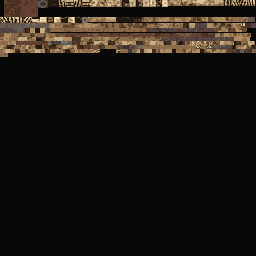
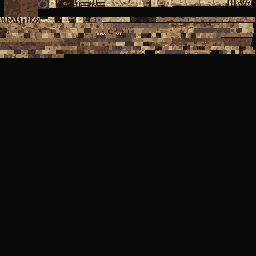
Squelette guerrier : tetes/os plus epais, attaque a l'arme seule, mesure des traversees, fiche PERSONNAGES_TECH, galerie_trous

Changed region(s): [[0.0, 0.0, 1.0, 0.25]]

diff --git a/sources_blender/scripts/squelette_guerrier.py b/sources_blender/scripts/squelette_guerrier.py
@@ -80,9 +80,11 @@ def loft(M, bone, rings, cls, part, caps=True, apex=None, pits=None, **kw):
 def ring_rect(c, s, f, hs, hf):
     return [c + s * hs + f * hf, c + s * hs - f * hf, c - s * hs - f * hf, c - s * hs + f * hf]
 
+EPAIS = 1.22     # os longs plus epais (lisibles a 20 m) ; les epiphyses (extremites) en profitent aussi
+
 def os_long(M, bone, a, b, stations, side, front, part, cls="os"):
     ax = b - a
-    rings = [ring_rect(a + ax * t, side, front, hs, hf) for t, hs, hf in stations]
+    rings = [ring_rect(a + ax * t, side, front, hs * EPAIS, hf * EPAIS) for t, hs, hf in stations]
     return loft(M, bone, rings, cls, part)
 
 def mir(p):
@@ -148,6 +150,12 @@ for sg, nom in ((1, "l"), (-1, "r")):
     x = sg * 0.114
     loft(M, "foot_" + nom, [[V(x + 0.032, 0.125, 0.0), V(x - 0.032, 0.125, 0.0), V(x - 0.030, 0.125, 0.096), V(x + 0.030, 0.125, 0.096)],
                             [V(x + 0.046, -0.215, 0.0), V(x - 0.046, -0.215, 0.0), V(x - 0.040, -0.215, 0.034), V(x + 0.040, -0.215, 0.034)]], "os", "pied_" + nom)
+
+# tete : un peu plus grosse (lisibilite a distance), echelle autour de la nuque
+CTR = V(0.0, 0.03, 1.75)
+for i, b in enumerate(corps.bone):
+    if b == "Head":
+        corps.v[i] = CTR + (corps.v[i] - CTR) * 1.12
 
 # bouclier rond ebreche, fixe a l'avant-bras gauche (face vers l'avant = -Y)
 SC = V(0.600, 0.065 - 0.155, 1.456)

diff --git a/docs/PERSONNAGES_TECH.md b/docs/PERSONNAGES_TECH.md
@@ -1,0 +1,35 @@
+# Fiches techniques des personnages
+
+(Une section par agent. Cette section : « Squelette guerrier ». Si le fichier existe déjà sur la branche fusionnée, ajouter la section à la suite.)
+
+## Squelette guerrier (ennemi « squelette », branche graphisme/squelette-guerrier)
+
+### Macro / Méso / Micro (décidés avant le code)
+- **Macro (silhouette à 20 m)** : un grand os clair sur le fond sombre de la crypte : cage thoracique en bloc rayé de noir, casque conique en fer, bouclier rond ébréché au bras gauche, lame ou arc à droite, os longs épais à épiphyses larges. Se distingue du draugr (chair momifiée, haillons) par l'absence totale d'étoffe et par la teinte ivoire.
+- **Méso (2-8 m)** : cage thoracique à 6 pans (fentes intercostales peintes, sternum saillant), bassin en 3 blocs (sacrum + 2 ailes iliaques), crâne facetté avec orbites et narine en pyramides creuses réelles, mâchoire séparée, nasal du casque ; chaque os long = prisme à 4 pans évasé aux deux bouts (condyles) qui recouvre l'articulation voisine (aucun trou au pliage).
+- **Micro (< 2 m)** : atlas 256² à DENSITE_PERSO = 32 texels/m, un îlot par face ; os ivoire -> brun (taches, dessous des os plus sombres, poussière vers le bas), arêtes éclaircies d'un texel sur les grandes faces, fer rouillé par plaques, bouclier peint écaillé (secteurs rouges), dents du maxillaire, lueur froide dans les orbites (matériau non éclairé très sombre bleuté, surface 1).
+
+### Budget
+- Triangles (tout compris) : **552** corps + casque + bouclier ; +38 épée = **590** ; +44 arc = **596** (cible 450-600). Détail : crâne 32, face 50, mâchoire 20, casque 42, cage 44, bassin 36, os longs 8 (28 ou 20 chacun), mains 24, pieds 24, clavicules 24, cou 12, lombes 12, bouclier 38.
+- Os : 25 = RIG18 (root + 18 déformants) + `spine_02` + 4 feuilles sans poids (`ball_l/r`, `middle_01_l/r`, exigées par `scripts/ragdoll.gd`). Plafond 26 respecté ; aucun os secondaire à ressort (pas d'étoffe sur un squelette).
+- Skinning rigide : 1 os, poids 1,0 par sommet (pièces rigides, adapté au vertex snapping). Bouclier -> `lowerarm_l`, arme -> `hand_r` (repère de la prise de l'épée du joueur, `draugr.gd: prise`).
+- Texture : 1 atlas 256x256 (~16 % utilisé à 32 texels/m : marge pour 64 texels/m), palette 15 bits, rampes de 8 tons, tramage par bruit de valeur (jamais Bayer). Matériau : `ps1.gdshader` via `Humain.shader_perso` (mipmaps plus proche voisin). 2 surfaces : 0 = atlas, 1 = orbites.
+- Mémoire/perf : 1 matériau partagé par tous les squelettes (cache statique), 1 draw call par surface.
+
+### Fichiers
+- `sources_blender/scripts/squelette_guerrier.py` : génère squelette (depuis `homme_vetu_lot1.glb`, mêmes os et pose de repos -> animations et ragdoll inchangés), maillages, UV, atlas, export. Rejouable : `outils/blender.sh` (puis `godot --headless --import`, puis `outils/generer_squelette.gd`).
+- `assets/modeles/squelettes/squelette_guerrier.glb` (maillages `squelette`, `epee`, `arc`), `sources_blender/squelette_guerrier_atlas.png`, `assets/personnages/squelette_guerrier.res` (précalcul, repli sur le PNG).
+- `scripts/squelette_guerrier.gd` (`SqueletteGuerrier.creer({"arme": "epee"|"arc"})`), `scripts/draugr.gd` (types `squelette`, `squelette_archer`).
+- Outils : `galerie_squelette.gd` (fixe / anim 8 images / jour-nuit), `galerie_trous.gd` (personas `squelette_epee|arc`), `test_squelette.gd`, `test_squelette_traversees.gd`, `analyse_prise.gd`.
+
+### Comportement
+70 PV, marche 1,05 m/s (draugr 0,85), course 4,3 m/s (3,4), 14 dégâts ; coups puissants x1,3 (os secs, « contondant » simplifié : le jeu n'a pas d'arme contondante) ; bouclier : mêmes parades que le guerrier ; frappe uniquement `Sword_Attack` (le coup de poing ferait traverser la tête par la lame) ; mort = ragdoll existant (tas d'os < 0,35 m, étalement < 1 m), sons d'os (`impactWood_heavy`, `chop`), butin d'os de draugr. L'archer est une variante VISUELLE : aucun système de tir n'existe, il frappe à l'arc.
+
+### Ajouter un squelette
+1. Dans une zone : `gardien("zone", "squelette"` ou `"squelette_archer", pos, lacet, dort, debout, "cr_zone_xxx")` ; passer un identifiant fixe (dernier argument) pour ne pas décaler les identifiants numérotés déjà sauvegardés.
+2. Hors crypte : `monde.creer_draugr("squelette", pos, lacet, dort)`.
+3. Changer le modèle : modifier le script Blender, `outils/blender.sh`, import Godot, `outils/generer_squelette.gd` (incrémenter `SqueletteGuerrier.VERSION`), `test_squelette.gd` + `test_squelette_traversees.gd`.
+4. Changer la densité : `DENSITE_PERSO` dans le script Blender ET dans `squelette_guerrier.gd` (la valeur est cuite dans les UV).
+
+### Vérifications
+Voir le journal dans `docs/MISSION_GRAPHISME.md` (lot « squelette guerrier »).

diff --git a/docs/MISSION_GRAPHISME.md b/docs/MISSION_GRAPHISME.md
@@ -1036,3 +1036,6 @@ plus tombantes vers le bout (rideau), `_arc_epicea` : forte retombée en bas, br
 propre à l'arbre / à l'étage / à la branche, neige = branche plus lourde ; flèche parfois penchée. Second RNG (graine*13+5) :
 le placement des branches est inchangé. LOD (1 tronçon) : bout placé à `mid + tip/2` pour garder l'affaissement moyen.
 Textures, couleurs, nombre de triangles : inchangés (0 %). Planches : captures/sapins/planche_avant_apres_{jour,nuit}.png.
+
+## Lot « squelette guerrier » (branche graphisme/squelette-guerrier)
+Nouvel ennemi : squelette nordique (ossements, casque à nasal, bouclier rond ébréché, épée ou arc). Fiche : `docs/PERSONNAGES_TECH.md`. 552 tris corps + 38 épée / 44 arc, 25 os, atlas 256² à 32 texels/m. Intégré à `draugr.gd` (types `squelette`, `squelette_archer`), 3 gardiens dans l'ossuaire (`cr_ossuaire_sq1/sq2/sqa`, identifiants fixes). Tests : `test_squelette` (apparition, coups, mort/ragdoll, sauvegarde, crypte), `test_squelette_traversees` (bouclier/lame contre le corps sur 10 animations : 0 traversée sur Idle, Sword_Idle, Walk, Jog_Fwd, Sword_Attack, Hit_*; Punch_Cross/Sprint/Death01 : bouclier dans la cage jusqu'à 71 mm ; le squelette n'utilise donc que Sword_Attack). Planches : `captures/squelette/`.
